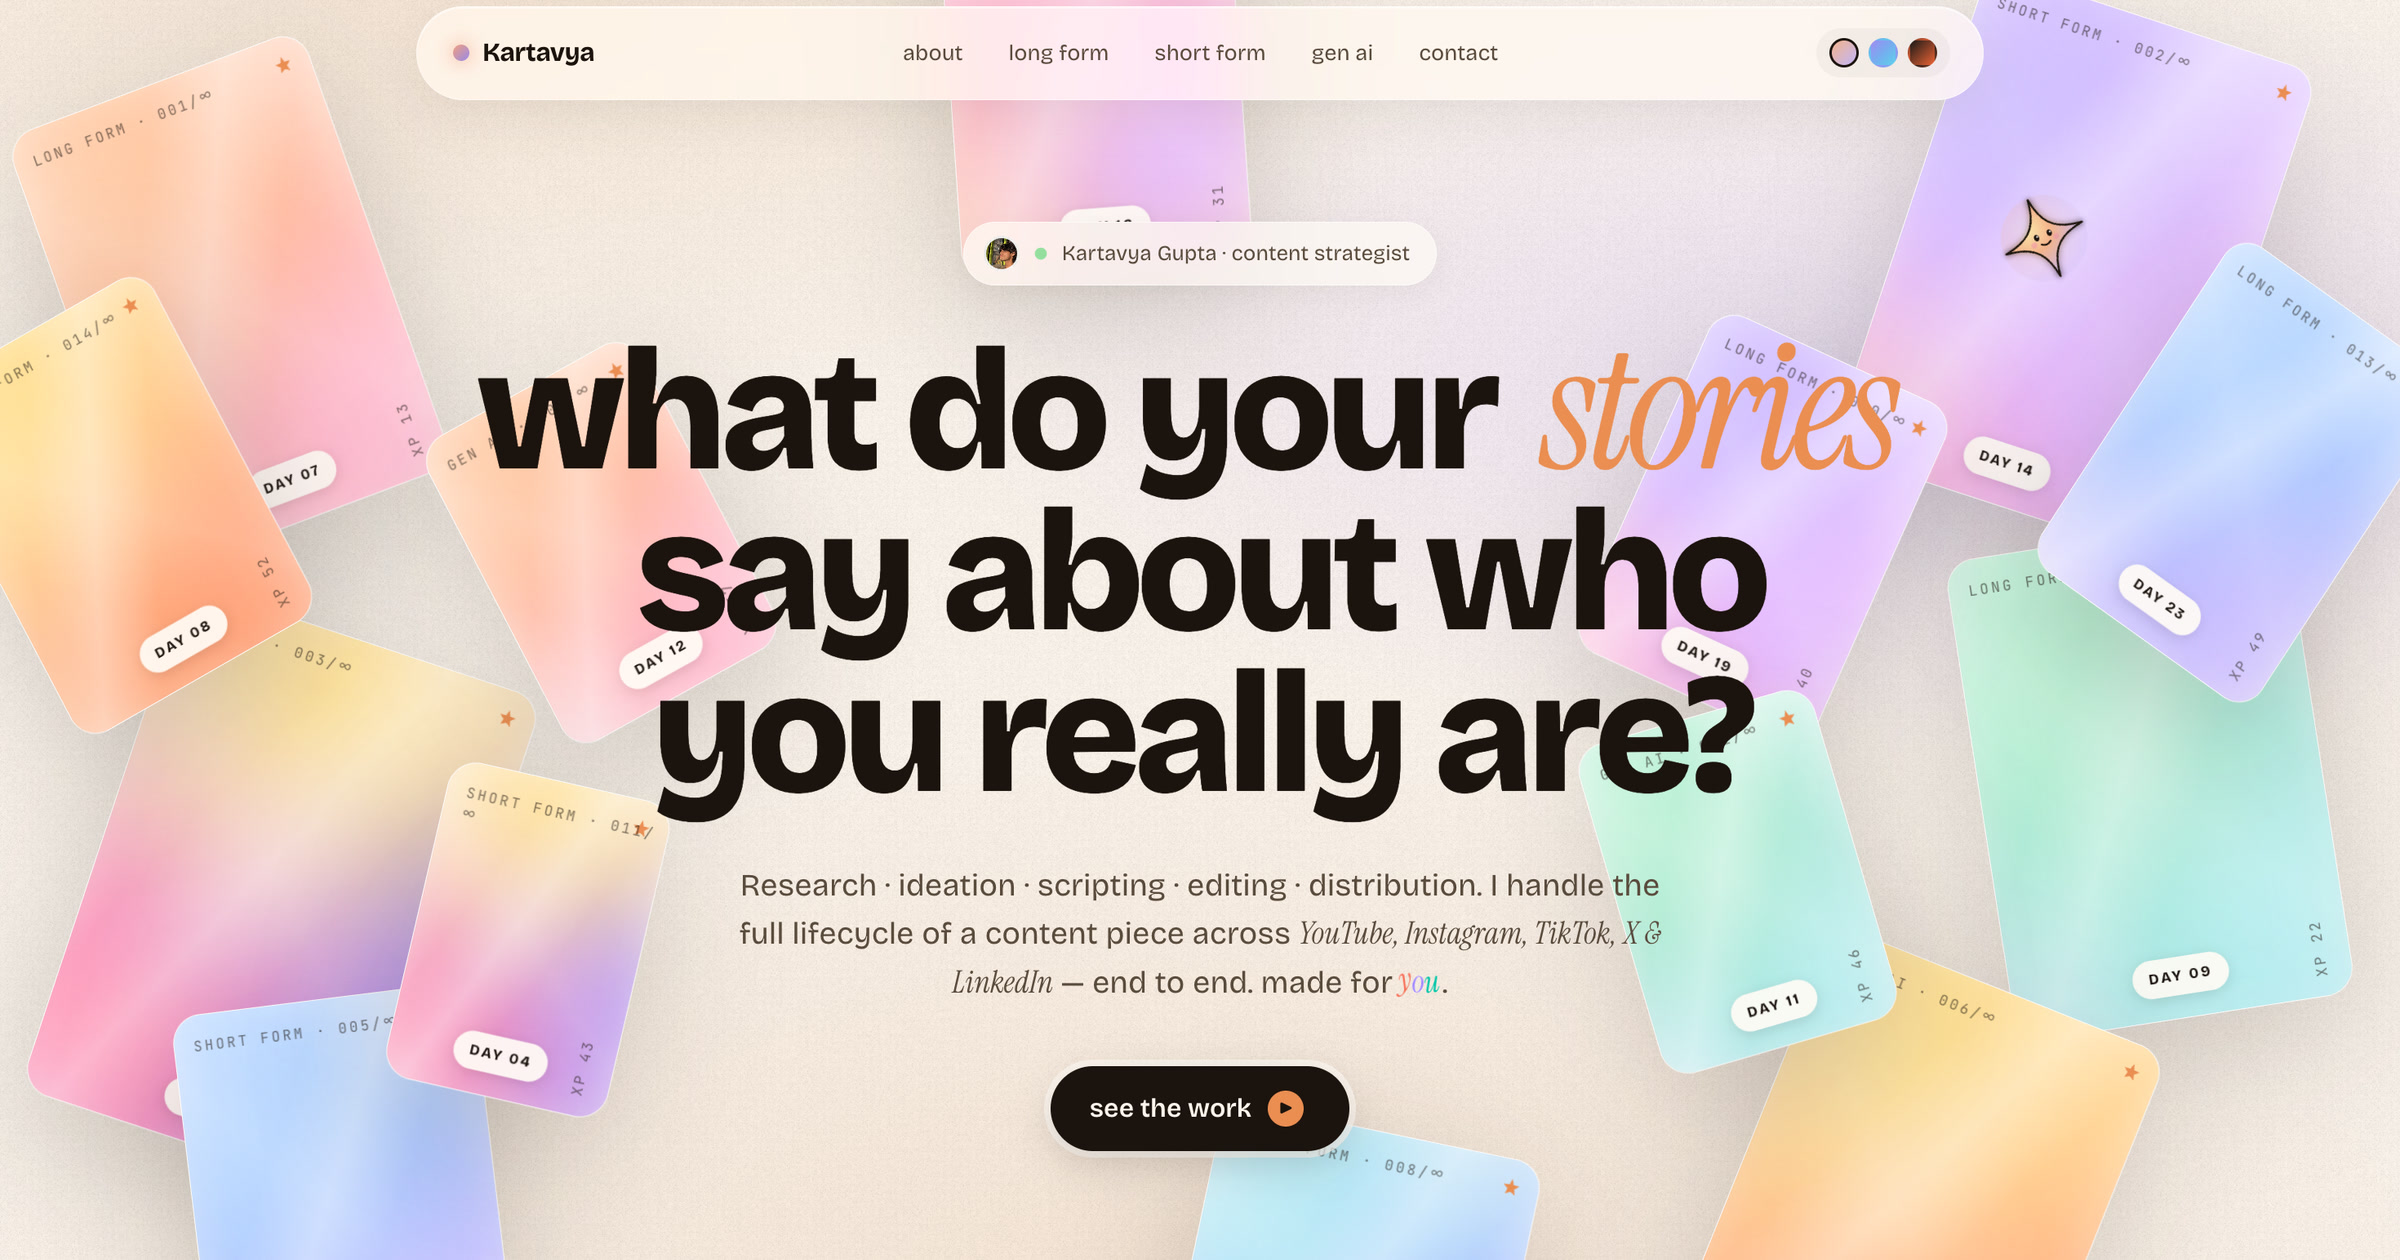
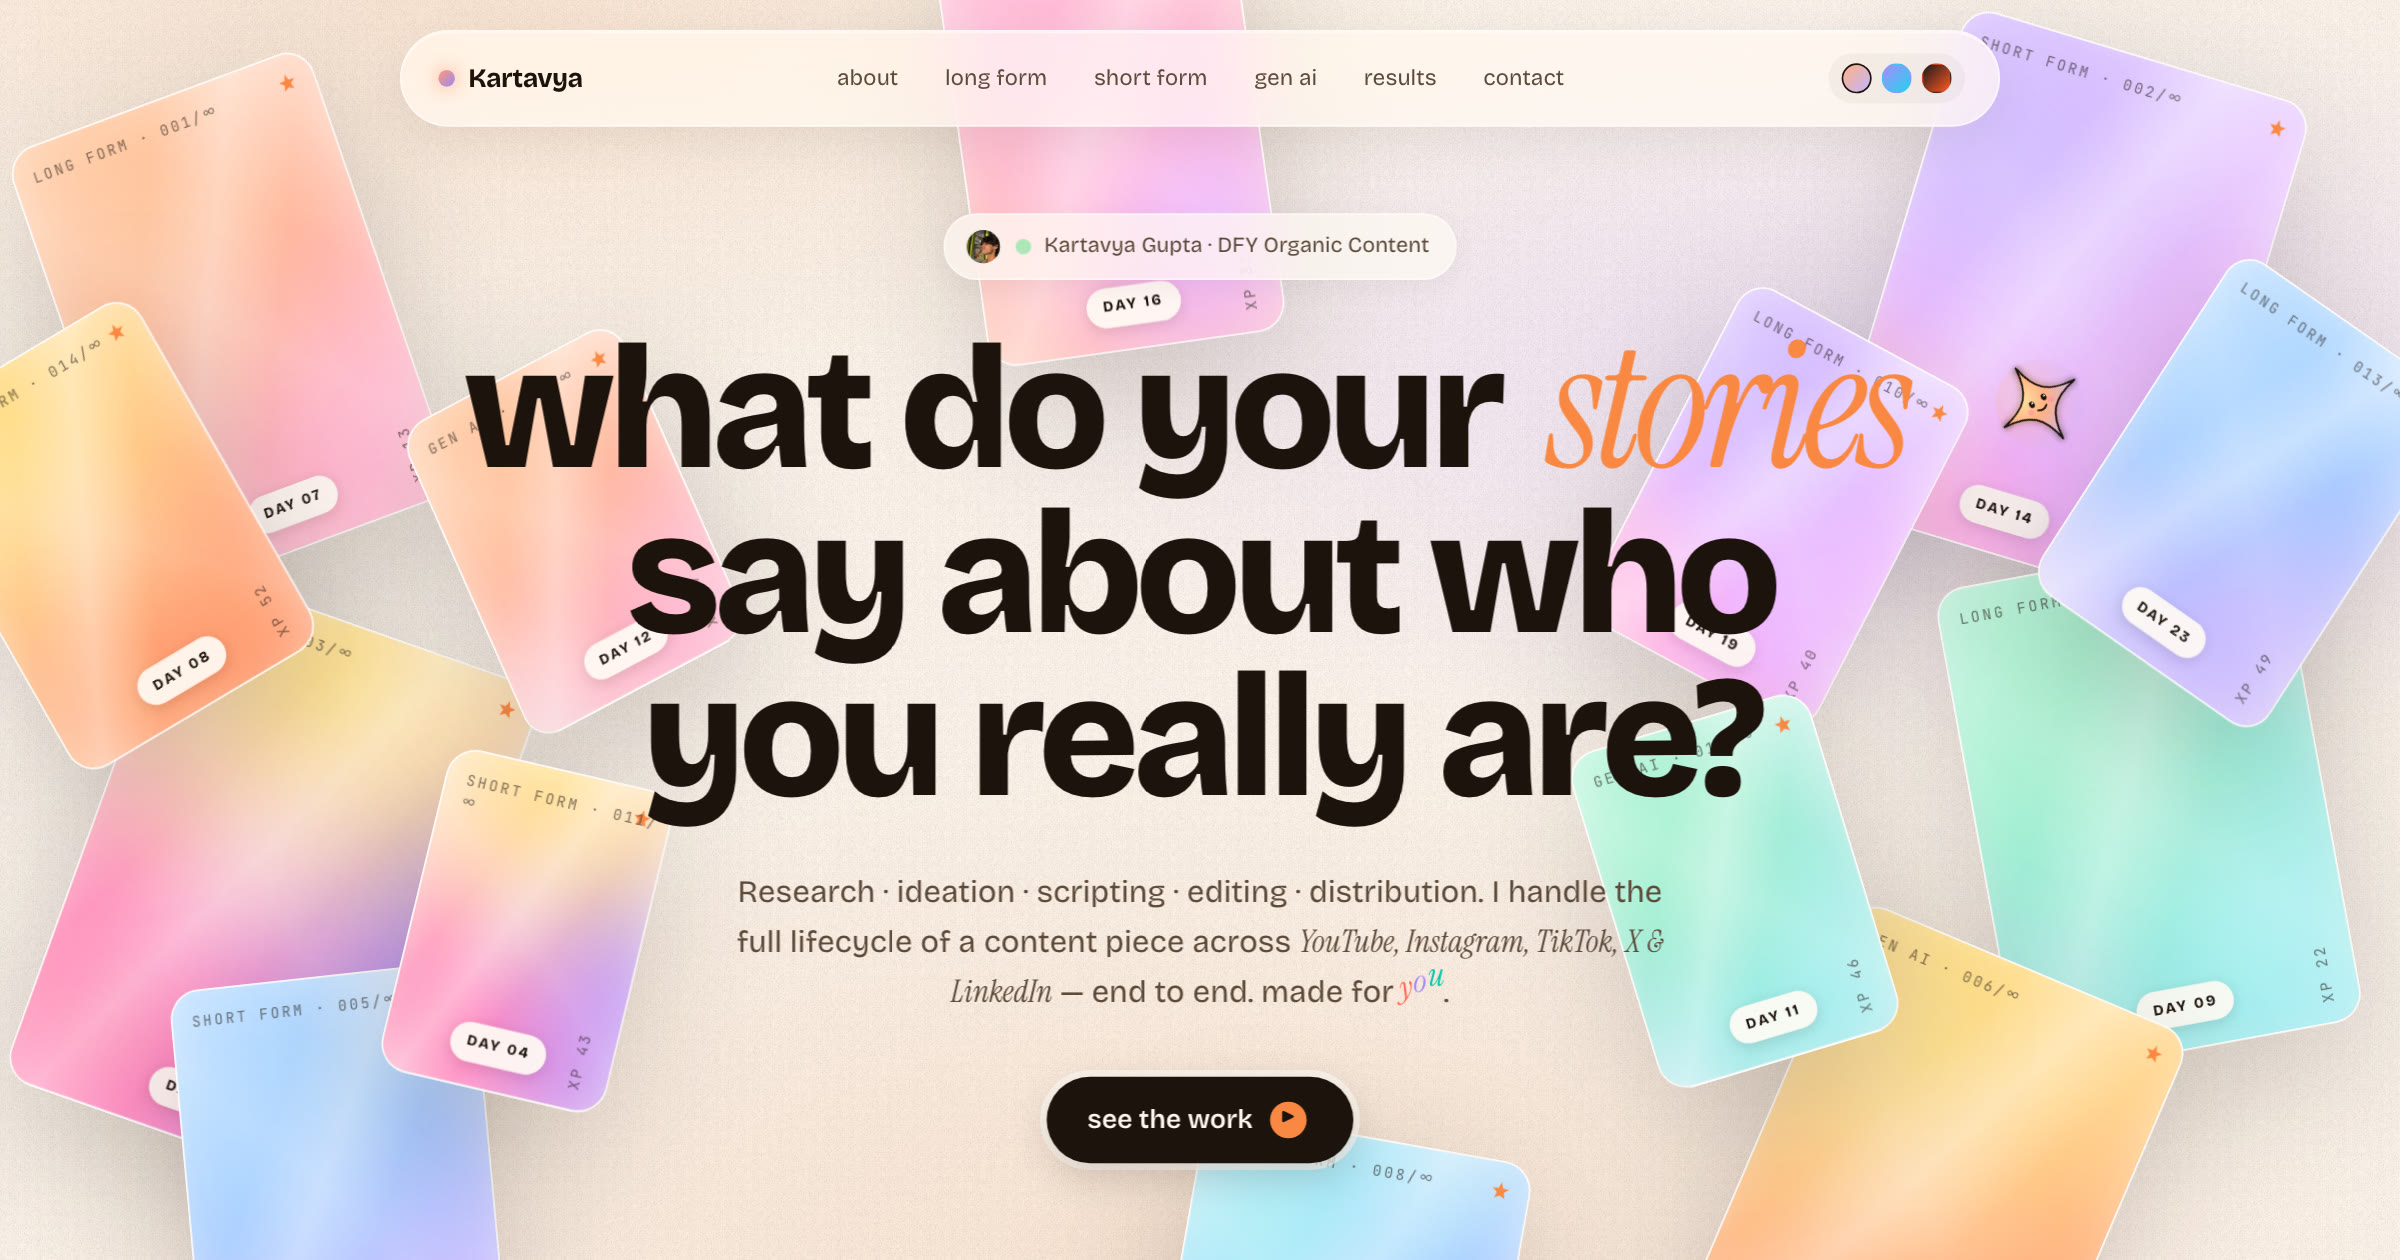
copy: retitle to DFY Organic Content
Replace "Content Strategist" in page title, meta/OG/Twitter titles,
hero pill and site.ts role/tagline; reshoot OG hero screenshot so link
previews show the new title.

diff --git a/app/layout.tsx b/app/layout.tsx
@@ -30,11 +30,11 @@ const jetbrainsMono = JetBrains_Mono({
 
 export const metadata: Metadata = {
   metadataBase: new URL("https://www.kartavya.studio"),
-  title: "Kartavya Gupta — Content Strategist",
+  title: "Kartavya Gupta — DFY Organic Content",
   description:
-    "Content strategist who actually executes. Research, ideation, scripting, editing, distribution — full lifecycle across YouTube, Instagram, TikTok, X & LinkedIn.",
+    "DFY organic content, actually executed. Research, ideation, scripting, editing, distribution — full lifecycle across YouTube, Instagram, TikTok, X & LinkedIn.",
   openGraph: {
-    title: "Kartavya Gupta — Content Strategist",
+    title: "Kartavya Gupta — DFY Organic Content",
     description: "A strategist who can actually execute.",
     url: "https://www.kartavya.studio",
     siteName: "Kartavya Gupta",
@@ -44,13 +44,13 @@ export const metadata: Metadata = {
         url: "/og/og.jpg",
         width: 2400,
         height: 1260,
-        alt: "Kartavya Gupta — Content Strategist",
+        alt: "Kartavya Gupta — DFY Organic Content",
       },
     ],
   },
   twitter: {
     card: "summary_large_image",
-    title: "Kartavya Gupta — Content Strategist",
+    title: "Kartavya Gupta — DFY Organic Content",
     description: "A strategist who can actually execute.",
     images: ["/og/og.jpg"],
   },

diff --git a/components/sections/Hero.tsx b/components/sections/Hero.tsx
@@ -145,7 +145,7 @@ export function Hero({
         <div className="hero-name">
           <span className="avatar-mini" />
           <span className="ping" />
-          <span>Kartavya Gupta · content strategist</span>
+          <span>Kartavya Gupta · DFY Organic Content</span>
         </div>
 
         <h1>

diff --git a/content/site.ts b/content/site.ts
@@ -1,7 +1,7 @@
 export const site = {
   name: "Kartavya Gupta",
-  role: "Content Strategist",
-  tagline: "content strategist",
+  role: "DFY Organic Content",
+  tagline: "DFY Organic Content",
   email: "kartavya.gupta013@gmail.com",
   linkedin: "https://www.linkedin.com/in/kartavya-z/",
   skills: [

diff --git a/CLAUDE.md b/CLAUDE.md
@@ -118,7 +118,7 @@ type Project = {
 
 ## OG / link previews
 
-- OG image is the **static hero screenshot** at `public/og/og.jpg`, **2400×1260** (2× of 1200×630) so it stays sharp on retina — declare `width: 2400, height: 1260`. Do not use a generated `opengraph-image.tsx` card.
+- OG image is the **static hero screenshot** at `public/og/og.jpg`, **2400×1260** (2× of 1200×630; shoot at a 1440×756 viewport, DPR 2400/1440, so framing matches desktop; reshoot whenever hero text changes) so it stays sharp on retina — declare `width: 2400, height: 1260`. Do not use a generated `opengraph-image.tsx` card.
 - `metadataBase` and `openGraph.url` must use the **www** origin (`https://www.kartavya.studio`) — the apex 301-redirects, and a redirected `og:image` URL trips some crawlers.
 - After changing OG assets, LinkedIn caches hard (~up to 7 days). Re-scrape via Post Inspector with the **www** URL; the inspector preview renders small so looks softer than a real feed card.
 
